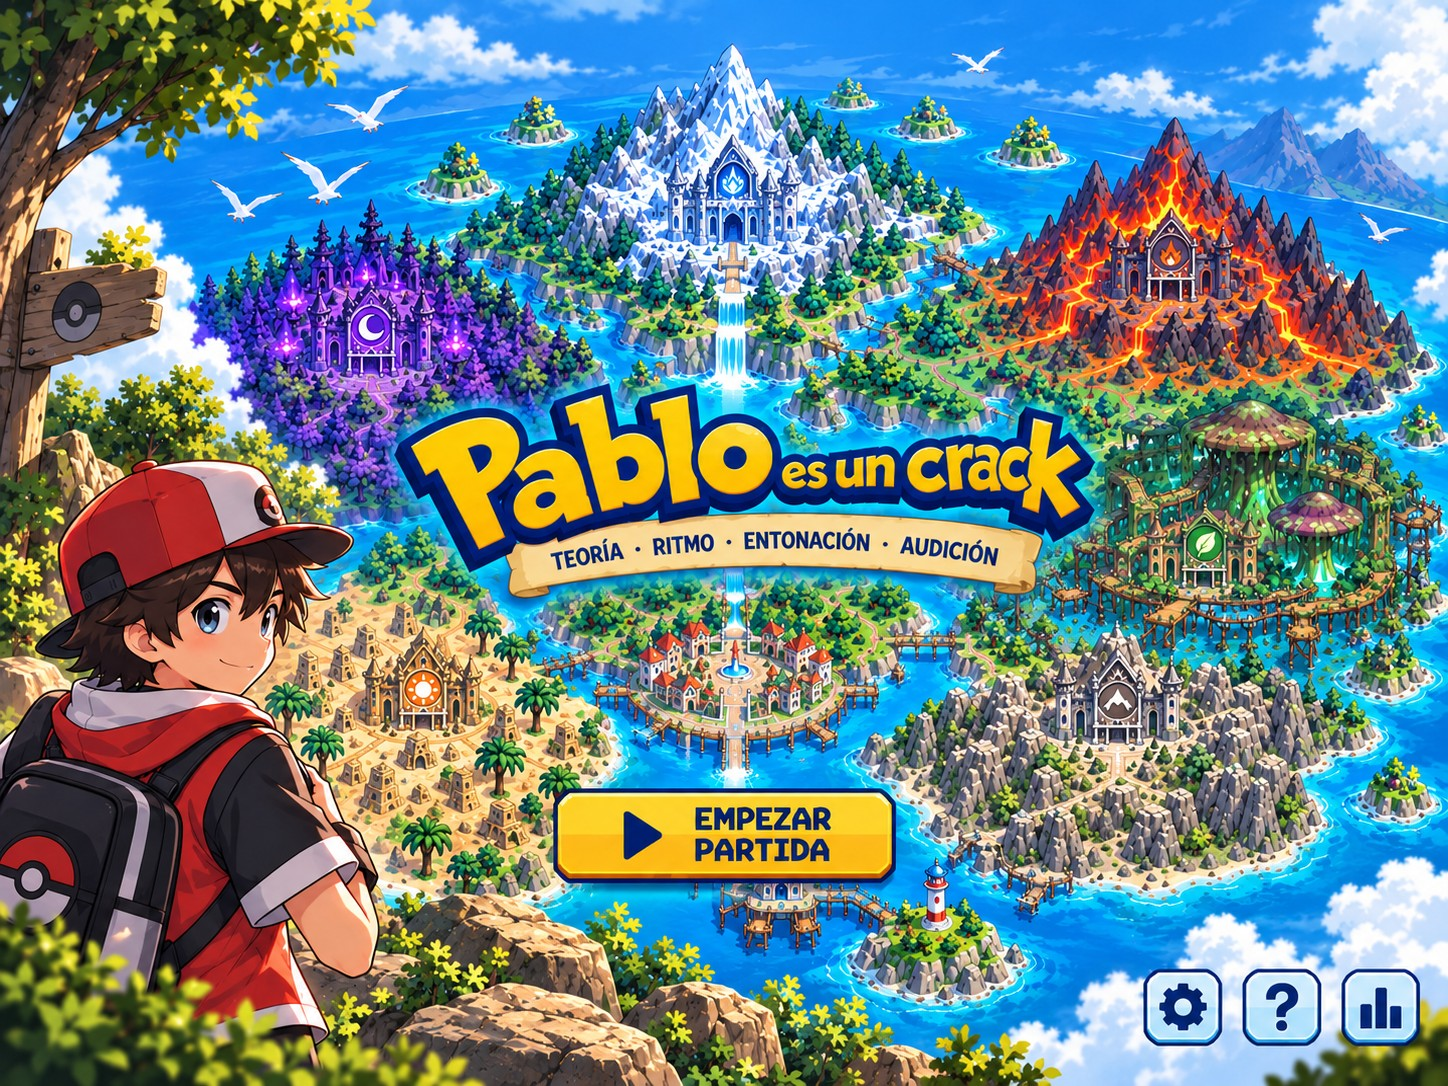
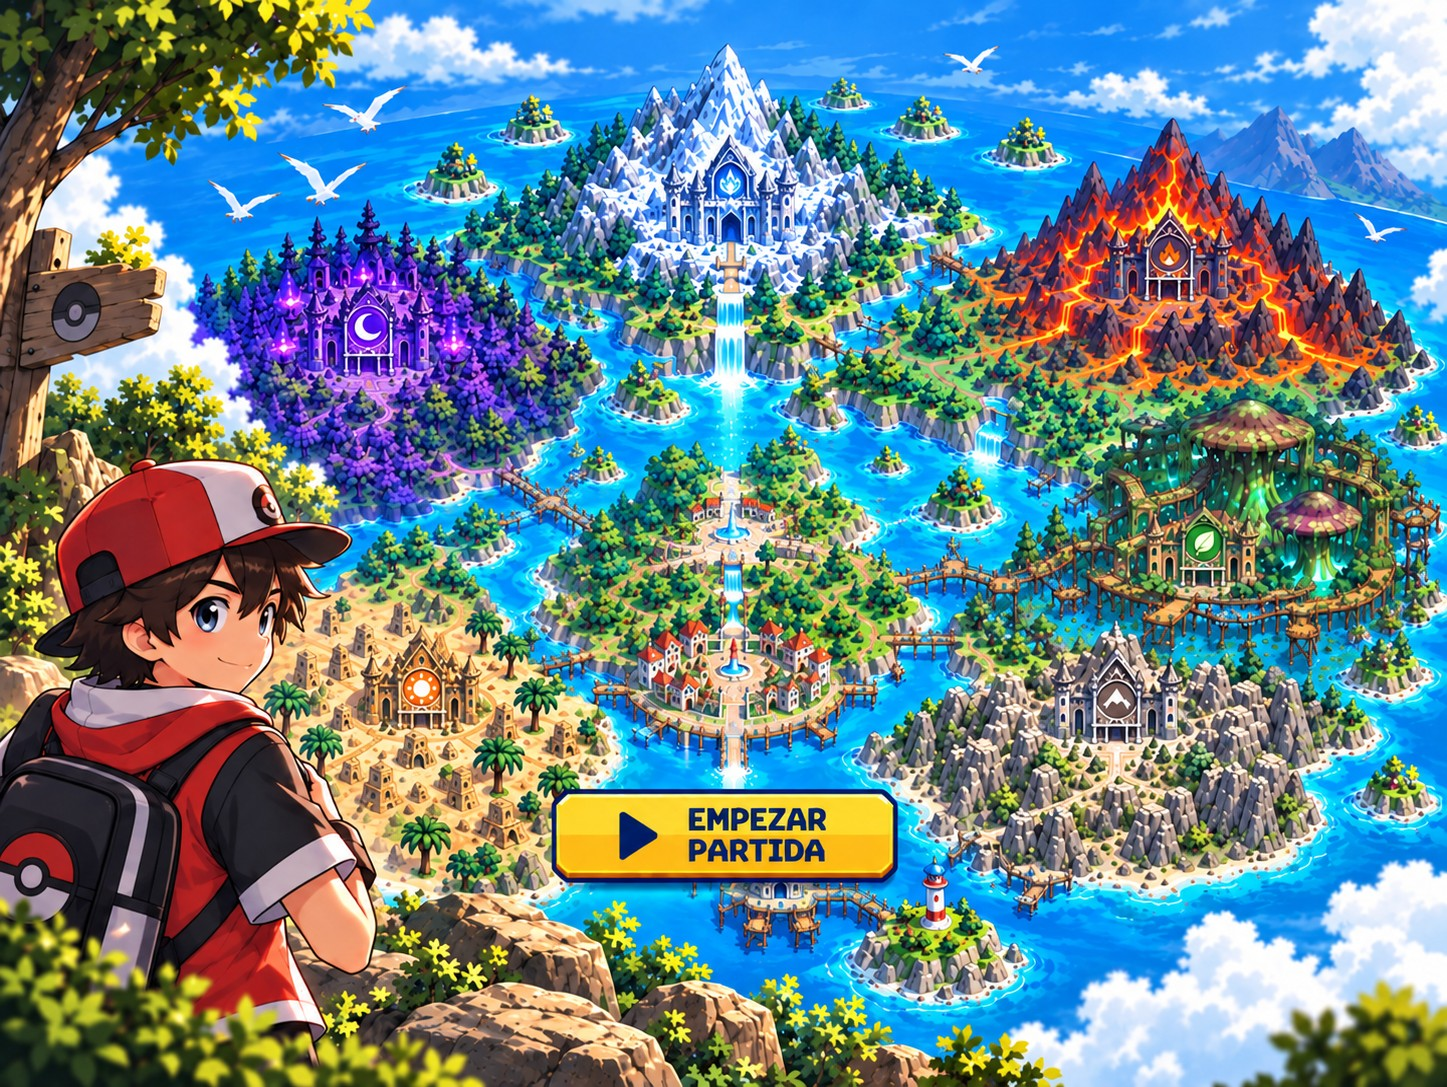
v47

diff --git a/index.html b/index.html
@@ -414,8 +414,8 @@ body.mapmode header{display:none}body.mapmode main{padding:0}
 .collGrid .ci{background:rgba(255,255,255,.12);border:3px solid #fff;border-radius:8px;padding:6px;display:flex;flex-direction:column;align-items:center;gap:4px}
 .collGrid img{width:96px;height:96px;object-fit:cover;border-radius:6px}
 .collGrid .cn{font-family:var(--pix);font-size:9px;color:#fff;line-height:1.4}
-.hudLogo{height:74px;filter:drop-shadow(0 4px 0 #000)}
-.hLogo{height:clamp(34px,5.5vh,54px);vertical-align:middle;margin-right:10px}
+.hudLogo{height:84px;border-radius:18px;filter:drop-shadow(0 4px 0 #000)}
+.hLogo{height:clamp(44px,7.5vh,64px);border-radius:12px;vertical-align:middle;margin-right:10px}
 .hLbl{height:clamp(36px,5.5vh,56px);vertical-align:middle;margin-left:10px;filter:drop-shadow(3px 3px 0 var(--accDark))}
 header .titles{display:flex;align-items:center}
 .pcard{background:linear-gradient(160deg,#ffcb05,#f2a900);border:5px solid #111;border-radius:14px;padding:8px;box-shadow:6px 6px 0 #000,0 0 30px var(--acc);display:flex;flex-direction:column;gap:6px;align-items:stretch}
@@ -454,7 +454,7 @@ main{position:relative}
     <button class="home" id="btnHome" title="Inicio">🏠</button>
     <button class="home" id="btnFull2" title="Pantalla completa" style="font-size:24px">⛶</button>
     <div class="titles">
-      <img class="hLogo" src="assets/logo.png" alt="Pablo es un crack"><span class="kicker">EN:</span>
+      <img class="hLogo" src="assets/icon_app.png" alt="Pablo es un crack"><span class="kicker">EN:</span>
       <img class="hLbl hidden" id="hLbl" alt=""><span class="poketitle" id="hTitle">Ritmo</span>
     </div>
     <div class="stars" id="hStars"></div>
@@ -469,7 +469,7 @@ main{position:relative}
       <div class="mapwrap" id="mapWrap">
         <canvas id="mapCv"></canvas>
         <div class="hud">
-          <div class="hudTitle"><img class="hudLogo" src="assets/logo.png" alt="Pablo es un crack"></div>
+          <div class="hudTitle"><img class="hudLogo" src="assets/icon_app.png" alt="Pablo es un crack"></div>
           <button class="rbtn" id="btnCaught" title="Capturados" style="display:none"><span id="caughtN">0</span></button>
           <button class="rbtn" id="btnMute" title="Música"></button>
           <button class="rbtn" id="btnFull" title="Pantalla completa"></button>
@@ -522,7 +522,7 @@ main{position:relative}
   <canvas id="titleSea" class="hidden"></canvas>
   <div class="tArt"><img src="assets/title_bg.jpg" alt="Pablo es un crack"><canvas id="titleFx"></canvas>
     <button class="tStartBtn" id="btnStart" aria-label="Empezar partida"></button>
-    <button class="tGear" id="tGear" aria-label="Ajustes"></button>
+    <button class="tGear" id="tGear" aria-label="Ajustes" style="display:none"></button>
   </div>
 </div>
 <div id="endScreen" class="hidden"><div class="tArt eArt"><img src="assets/end_bg.jpg" alt="Fin de la partida"><button class="pixbtn big eBtn" id="endOk">VOLVER AL PUEBLO</button></div></div>
@@ -635,6 +635,8 @@ const REACT_T={normal:0,decidido:0,pensativo:0,pensativo2:0}; let reactTm=null;
 const RMAP={sorpresa:'sorprendido',observa:'nervioso',captura:'serio',capturado:'victoria',lanza:'entusiasmado',recibe:'ilusionado',usa:'idea',recupera:'contento',subenivel:'ilusionado',orden:'decidido',pensativo2:'pensativo'};
 const RALL=['normal','alegre','contento','sorprendido','entusiasmado','decidido','pensativo','confundido','nervioso','asustado','enojado','triste','decepcionado','avergonzado','cansado','molesto','ilusionado','idea','seguro','saludando','despidiendose','victoria','derrota','llorando','enamorado','serio','sufriendo','rie'];
 let RESULT_MODE=false, REACT_SOFT=false; const PLAY_T0=Date.now();
+// precarga de fondos y caras de las reacciones (para que el cambio sea inmediato)
+setTimeout(()=>{ ['pueblo','hielo','fuego','pantano','magia','roca','desierto','dibujo'].forEach(b=>['ext','int'].forEach(k=>{ const i=new Image(); i.src=`assets/rbg/${b}_${k}.jpg`; })); RALL.forEach(n=>{ const i=new Image(); i.src='assets/react2/'+n+'.png'; }); },1500);
 function rseen(){ return loadJSON('pec_rseen',{}); }
 // elige entre varias caras la que menos veces ha salido (así, a lo largo de la partida, aparecen todas)
 function rpick(list){ const sn=rseen(); let best=list[0],bv=1e9; list.forEach(n=>{ const v=sn[n]||0; if(v<bv||(v===bv&&Math.random()<.5)){ bv=v; best=n; } }); return best; }
@@ -1365,19 +1367,19 @@ MODULES.mapa=(()=>{
     // brillo de la puerta del gimnasio
     if(s.door&&!s.interior){ const [dx,dy]=P(...s.door); const a=.18+.1*Math.sin(t*3); const g=c.createRadialGradient(dx,dy-10,2,dx,dy-10,46); g.addColorStop(0,`rgba(255,240,160,${a})`); g.addColorStop(1,'rgba(255,240,160,0)'); c.fillStyle=g; c.fillRect(dx-50,dy-60,100,100); }
     drawMaterialFx(c,t,s,cx0,cy0,vw,vh); drawLife(c,t,dt,s,cx0,cy0,vw,vh);
-    if(withPablo){ const walking=(vel.x||vel.y)||(route&&route.length); const fr=walking?1+Math.floor(walkT*7)%4:0; drawPablo8(c,pos.x,pos.y,fr); }
+    if(withPablo){ const walking=(vel.x||vel.y)||(route&&route.length); const fr=walking?1+Math.floor(walkT*9)%4:0; drawPablo8(c,pos.x,pos.y,fr); }
     c.restore(); }
   // ---- lógica ----
   function setScreen(id,at,fc){ screen=id; pos={x:at[0],y:at[1]}; face=fc||'up'; zoneArmed=false; route=null; vel={x:0,y:0}; LIFE.parts=null; LIFE.birds=[]; FX.grass.length=0; FX.prints.length=0; setZoom(); const cm=camFor(pos); camX=cm.x; camY=cm.y; hidePrompt(); const g=G(); g.screen=screen; g.pos=pos; saveG(g); musicFor(); }
   function musicFor(){ if(current!=='mapa') return; Music.play(SC[screen].interior?'accion':screen==='pueblo'?'pueblo':screen); }
-  function startTrans(dir,toId,toPos,then){ const from=screen; const fromCam={x:camX,y:camY}; const s2=SC[toId]; const toCam=camFor({x:toPos[0],y:toPos[1]}); trans={from,to:toId,dir,t:0,fromCam,toCam,toPos,then}; busy=true; { const el=$('#react'); el.style.transition='opacity .45s'; el.style.opacity='0'; setTimeout(()=>{ REACT_SOFT=true; react(toId==='pueblo'?rpick(['normal','contento','seguro']):rpick(['ilusionado','seguro','decidido','entusiasmado']),3500); REACT_SOFT=false; el.style.opacity='1'; setTimeout(()=>{ el.style.transition=''; },500); },500); } Music.play(toId==='pueblo'?'pueblo':toId); blip(520,.08,'triangle',.08); }
-  function tryMove(dx,dy,dt){ const s=SC[screen]; const sp=150*dt; let nx=pos.x+dx*sp, ny=pos.y+dy*sp; if(s.interior&&s.door){ const lim=P(...s.door)[1]-2; if(ny<lim){ ny=lim; if(pos.y<=lim&&dy<0) return false; } } /* en el interior no se suben las escaleras: se para justo antes */ if(walkable(s,nx,ny)){ pos.x=nx; pos.y=ny; return true; } if(dx&&walkable(s,pos.x+dx*sp,pos.y)){ pos.x+=dx*sp; return true; } if(dy&&walkable(s,pos.x,pos.y+dy*sp)){ pos.y+=dy*sp; return true; } return false; }
+  function startTrans(dir,toId,toPos,then){ const from=screen; const fromCam={x:camX,y:camY}; const s2=SC[toId]; const toCam=camFor({x:toPos[0],y:toPos[1]}); trans={from,to:toId,dir,t:0,fromCam,toCam,toPos,then}; busy=true; { const el=$('#react'); el.style.transition='opacity .45s'; el.style.opacity='0'; setTimeout(()=>{ try{ el.style.backgroundImage=`url("assets/rbg/${toId==='pueblo'?'pueblo':toId}_ext.jpg")`; }catch(e){} },450); setTimeout(()=>{ REACT_SOFT=true; react(toId==='pueblo'?rpick(['normal','contento','seguro']):rpick(['ilusionado','seguro','decidido','entusiasmado']),3500); REACT_SOFT=false; el.style.opacity='1'; setTimeout(()=>{ el.style.transition=''; },500); },500); } Music.play(toId==='pueblo'?'pueblo':toId); blip(520,.08,'triangle',.08); }
+  function tryMove(dx,dy,dt){ const s=SC[screen]; const sp=195*dt; let nx=pos.x+dx*sp, ny=pos.y+dy*sp; if(s.interior&&s.door){ const lim=P(...s.door)[1]-2; if(ny<lim){ ny=lim; if(pos.y<=lim&&dy<0) return false; } } /* en el interior no se suben las escaleras: se para justo antes */ if(walkable(s,nx,ny)){ pos.x=nx; pos.y=ny; return true; } if(dx&&walkable(s,pos.x+dx*sp,pos.y)){ pos.x+=dx*sp; return true; } if(dy&&walkable(s,pos.x,pos.y+dy*sp)){ pos.y+=dy*sp; return true; } return false; }
   let stepAcc=0, stepSide=1;
   function step(now){ if(current!=='mapa') return; { const wrap=$('#mapWrap'); if(wrap&&(wrap.clientWidth!==VW||wrap.clientHeight!==VH)) size(); } const dt=Math.min(.05,(now-(last||now))/1000); last=now; const t=now/1000;
     if(trans){ trans.t+=dt/0.85; if(trans.t>=1){ const tr=trans; trans=null; busy=false; setScreen(tr.to,tr.toPos,tr.to==='pueblo'?(tr.dir==='S'?'down':tr.dir==='N'?'up':tr.dir==='E'?'right':'left'):'up'); if(tr.then) tr.then(); } draw(now,dt); raf=requestAnimationFrame(step); return; }
     if(!busy){ let dx=vel.x,dy=vel.y;
       if(route&&route.length){ const n=route[0]; const ddx=n.x-pos.x, ddy=n.y-pos.y; const d=Math.hypot(ddx,ddy); if(d<6){ route.shift(); if(!route.length){ route=null; onArrive(); } } else { dx=ddx/d; dy=ddy/d; } }
-      if(dx||dy){ const m=Math.hypot(dx,dy); dx/=m; dy/=m; face=DIR8(Math.round(dx),Math.round(dy)); if(tryMove(dx,dy,dt)){ walkT+=dt; stepAcc+=dt; walkCont+=dt; if(walkCont>10){ walkCont=0; react('cansado',3000); } if(stepAcc>.28){ stepAcc=0; stepSide=-stepSide; footstep(stepFx(now/1000,dx,dy,stepSide)); } } else if(route){ route.shift(); if(!route.length){ route=null; onArrive(); } } checkZones(); } else walkCont=0;
+      if(dx||dy){ const m=Math.hypot(dx,dy); dx/=m; dy/=m; face=DIR8(Math.round(dx),Math.round(dy)); if(tryMove(dx,dy,dt)){ walkT+=dt; stepAcc+=dt; walkCont+=dt; if(walkCont>10){ walkCont=0; react('cansado',3000); } if(stepAcc>.22){ stepAcc=0; stepSide=-stepSide; footstep(stepFx(now/1000,dx,dy,stepSide)); } } else if(route){ route.shift(); if(!route.length){ route=null; onArrive(); } } checkZones(); } else walkCont=0;
     if(!trans&&!busy) doorCheck();
     }
     draw(now,dt); raf=requestAnimationFrame(step); }
@@ -1446,7 +1448,7 @@ MODULES.mapa=(()=>{
     else if(screen==='pueblo'){ const d=DIRS.find(k=>EXIT[k]===nt); const [ex,ey]=P(...s.exits[d]); route=bfs(s,[pos.x,pos.y],[ex,ey]); }
     else { const [ex,ey]=P(...s.entry); route=bfs(s,[pos.x,pos.y],[ex,ey+10]); } }
   function start(){ cv=$('#mapCv'); ctx=cv.getContext('2d'); assignExits(); syncGym(); size(); const g=G(); busy=false; trans=null; started=true;
-    if(g.screen&&SC[g.screen]&&SC[g.screen].interior&&!pendingInterior){ const b=SC[g.screen].interior; const d=DIRS.find(k=>TODAY_BIOMES[EXIT[k]]===b); g.screen='pueblo'; if(d){ const [bx,by]=P(...SC.pueblo.exits[d]); const inward={N:[0,50],S:[0,-50],E:[-50,0],W:[50,0]}[d]; g.pos={x:bx+inward[0],y:by+inward[1]}; startFace={N:'down',S:'up',E:'left',W:'right'}[d]; } else g.pos=null; saveG(g); }
+    if(g.screen&&SC[g.screen]&&SC[g.screen].interior&&!pendingInterior){ g.screen='pueblo'; g.pos={x:765,y:590}; startFace='down'; zoneArmed=false; saveG(g); } // al salir de un gimnasio, Pablo aparece en la plaza junto a la fuente
     if(pendingInterior){ const pi=pendingInterior; pendingInterior=null; screen='int_'+pi.biome; pos={x:SC[screen].entry[0],y:SC[screen].entry[1]}; face='up'; bossState={phase:pi.phase,stars:pi.stars,pct:pi.pct,shown:false}; setZoom(); const cm=camFor(pos); camX=cm.x; camY=cm.y; route=null; hidePrompt(); last=0; if(raf)cancelAnimationFrame(raf); raf=requestAnimationFrame(step); Music.play('accion'); react('serio',0); $('#btnAuto').textContent='🚶 Avanzar hacia el líder'; window.addEventListener('resize',size); return; }
     bossState=null; bossSceneHide();
     if(g.screen&&SC[g.screen]&&g.pos&&g.pos.x>20&&g.pos.y>20&&g.pos.x<MW-20&&g.pos.y<MH-20&&(maskOk(SC[g.screen].img,g.pos.x,g.pos.y)!==false)&&(g.screen==='pueblo'||g.screen==='dibujo'||phaseOfBiome(g.screen))){ screen=g.screen; pos={x:g.pos.x,y:g.pos.y}; if(startFace){ face=startFace; startFace=null; } } else { screen='pueblo'; pos={x:765,y:590}; face='down'; } // por defecto: en la plaza, junto a la fuente
@@ -1581,18 +1583,20 @@ $('#btnFull').onclick=toggleFull; $('#btnFull2').onclick=toggleFull;
   tryIntro(); setTimeout(tryIntro,600); document.addEventListener('visibilitychange',()=>{ if(!document.hidden) tryIntro(); });
   ['pointerdown','touchstart','touchend','keydown','click'].forEach(ev=>document.addEventListener(ev,()=>{ const el=Music.el(); if(!el||el.paused) introMusic(); },{capture:true,passive:true}));
   /* ---- portada con vida: destellos en el mar, nubes que pasan y el logo flotando ---- */
-  (function(){ const cv=$('#titleFx'); const img=$('.tArt img'); if(!cv||!img) return; const logo=new Image(); logo.src='assets/title_logo.png'; const LB=[0.2714,0.3527,0.4862,0.2247]; // caja del logo en fracción de la imagen
-    let pts=null, clouds=null;
+  (function(){ const cv=$('#titleFx'); const img=$('.tArt img'); if(!cv||!img) return; const logo=new Image(); logo.src='assets/logo.png'; const LB=[0.2721,0.3536,0.4848,0.1989]; // caja del logo en fracción de la imagen
+    let pts=null, clouds=null, birds=null;
     function water(){ const w=181,h=136; const c=document.createElement('canvas'); c.width=w; c.height=h; const x=c.getContext('2d'); x.drawImage(img,0,0,w,h); const d=x.getImageData(0,0,w,h).data; const out=[]; for(let i=0;i<w*h;i++){ const r=d[i*4],g=d[i*4+1],b=d[i*4+2]; const px=i%w, py=(i-px)/w; const fx=px/w, fy=py/h; if(fx>LB[0]-.02&&fx<LB[0]+LB[2]+.02&&fy>LB[1]-.02&&fy<LB[1]+LB[3]+.02) continue; if(b>r+50&&b>160&&g>110&&((px*7+py*13)%9===0)) out.push([fx+Math.random()*.005,fy+Math.random()*.007,Math.random()*6.28,.6+Math.random()]); } return out; }
     function draw(now){ if($('#titleScreen').classList.contains('hidden')){ requestAnimationFrame(draw); return; } const W=cv.clientWidth,H=cv.clientHeight; const dpr=Math.min(2,window.devicePixelRatio||1); if(cv.width!==Math.round(W*dpr)||cv.height!==Math.round(H*dpr)){ cv.width=Math.round(W*dpr); cv.height=Math.round(H*dpr); } const c=cv.getContext('2d'); c.setTransform(dpr,0,0,dpr,0,0); c.clearRect(0,0,W,H); const t=now/1000; const iw=img.naturalWidth||1448, ih=img.naturalHeight||1086; const sc=Math.max(W/iw,H/ih); const DW=iw*sc, DH=ih*sc, OX=(W-DW)/2, OY=(H-DH)/2; // rect real de la imagen (object-fit: cover)
       if(!pts&&img.complete&&img.naturalWidth){ try{ pts=water(); }catch(e){ pts=[]; } }
-      if(!clouds) clouds=Array.from({length:7},(_,i)=>({x:Math.random(),y:.04+Math.random()*.22,w:.10+Math.random()*.16,sp:.006+Math.random()*.008,a:.18+Math.random()*.2,ph:i}));
+      if(!clouds){ clouds=Array.from({length:14},(_,i)=>({x:Math.random()*1.3-.15,y:.03+Math.random()*.30,w:.08+Math.random()*.22,sp:.004+Math.random()*.010,a:.14+Math.random()*.22,ph:i})); clouds.sort((p,q)=>p.w-q.w); birds=Array.from({length:4},(_,i)=>({x:Math.random(),y:.06+Math.random()*.25,sp:.02+Math.random()*.015,s:.006+Math.random()*.004,ph:Math.random()*6.28})); }
       // destellos en el mar
       if(pts){ pts.forEach(p=>{ const life=(t*(0.35+p[3]*.3)+p[2])%1; if(life>.18) return; const k=Math.sin(life/.18*Math.PI); const x=OX+p[0]*DW,y=OY+p[1]*DH; c.fillStyle=`rgba(255,255,255,${k*.85})`; c.fillRect(x-1,y-1,2,2); if(k>.7&&p[3]>1.3){ c.fillRect(x-4,y,9,1); c.fillRect(x,y-3,1,7); } }); }
       // nubes suaves que cruzan el cielo
       clouds.forEach(cl=>{ cl.x+=cl.sp/60; if(cl.x>1.2) cl.x=-.25; const x=OX+cl.x*DW,y=OY+cl.y*DH,w=cl.w*DW,h=w*.32; const g=c.createRadialGradient(x,y,0,x,y,w/2); g.addColorStop(0,`rgba(255,255,255,${cl.a})`); g.addColorStop(.6,`rgba(255,255,255,${cl.a*.5})`); g.addColorStop(1,'rgba(255,255,255,0)'); c.fillStyle=g; c.beginPath(); c.ellipse(x,y,w/2,h/2,0,0,7); c.fill(); c.beginPath(); c.ellipse(x-w*.22,y+h*.1,w*.28,h*.36,0,0,7); c.fill(); c.beginPath(); c.ellipse(x+w*.2,y+h*.08,w*.3,h*.4,0,0,7); c.fill(); });
-      // logo flotando (tapa al logo fijo de la imagen)
-      if(logo.complete&&logo.naturalWidth){ const lw=LB[2]*DW, lh=lw*logo.naturalHeight/logo.naturalWidth; const lx=OX+LB[0]*DW, ly=OY+LB[1]*DH; const bob=Math.sin(t*1.1)*DH*.005, tilt=Math.sin(t*.7)*.006; c.save(); c.translate(lx+lw/2,ly+lh/2+bob); c.rotate(tilt); c.drawImage(logo,-lw/2,-lh/2,lw,lh); c.restore(); }
+      // pajaritos planeando
+      if(birds) birds.forEach(bd=>{ bd.x+=bd.sp/60; if(bd.x>1.1){ bd.x=-.1; bd.y=.06+Math.random()*.25; } const x=OX+bd.x*DW, y=OY+bd.y*DH+Math.sin(t*1.3+bd.ph)*DH*.004; const sz=bd.s*DW; const flap=Math.sin(t*6+bd.ph)*sz*.5; c.strokeStyle='rgba(255,255,255,.9)'; c.lineWidth=Math.max(1.2,sz*.18); c.beginPath(); c.moveTo(x-sz,y+flap*.3); c.quadraticCurveTo(x-sz*.5,y-flap,x,y); c.quadraticCurveTo(x+sz*.5,y-flap,x+sz,y+flap*.3); c.stroke(); });
+      // logo flotando
+      if(logo.complete&&logo.naturalWidth){ const lw=DW*.50, lh=lw*logo.naturalHeight/logo.naturalWidth; const lx=OX+DW*.515-lw/2, ly=OY+DH*.43-lh/2; const bob=Math.sin(t*1.1)*DH*.009, tilt=Math.sin(t*.7)*.010; c.save(); c.translate(lx+lw/2,ly+lh/2+bob); c.rotate(tilt); c.shadowColor='rgba(0,0,0,.45)'; c.shadowBlur=18; c.shadowOffsetY=10-bob*.6; c.drawImage(logo,-lw/2,-lh/2,lw,lh); c.restore(); }
       requestAnimationFrame(draw); }
     requestAnimationFrame(draw); })();
   $('#tGear').onclick=()=>{ ac(); $('#titleScreen').classList.add('hidden'); renderAdmin(); show('admin'); };
